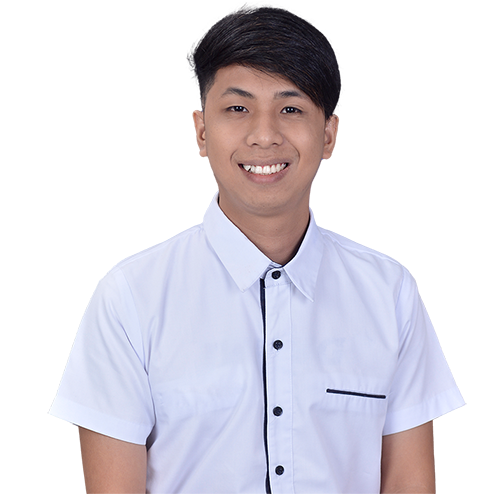
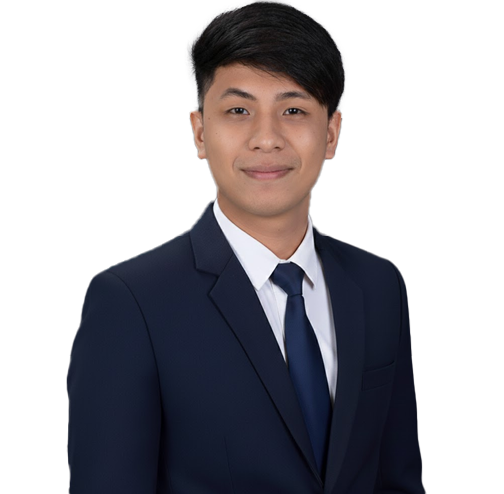
Update Image and Career Page

diff --git a/career.html b/career.html
@@ -65,26 +65,17 @@
             <h1 class="title">Opportunities here at UReL</h1>
             <div class="career-card-div">
                 <div class="career-card reveal">
-                    <h2 class="job-title">Bookkeeper</h2>
-                    <p>Are you organized, detail-oriented, and experienced in bookkeeping? 
-                        Join Urel VA Services as our next Bookkeeper!
+                    <h2 class="job-title">General Virtual Assistant</h2>
+                    <p>Are you organized, tech-savvy, and passionate about supporting growing businesses?
                     </p>
                     <div class="job-description">
-                        <h3 class="subtitle">Key Responsibilities:</h3>
+                        <h3 class="subtitle">We’re looking for a General VA who is:</h3>
                         <ul class="job-responsibility">
-                            <li class="responsibility-list">Manage accounts payable/receivable.</li>
-                            <li class="responsibility-list">Use Xero (or similar accounting software) to manage invoices, bills, and receipts</li>
-                            <li class="responsibility-list">Ensure accurate transaction, categorization, and reconciliation</li>
-                            <li class="responsibility-list">Lodge BAS (Business Activity Statements) accurately and on time</li>
-                            <li class="responsibility-list">Assist with financial reporting and maintain organized records</li>
-                        </ul>
-                        <h3 class="subtitle">Key Skills Required:</h3>
-                        <ul class="job-responsibility">
-                            <li class="responsibility-list">Proficiency in Xero or equivalent software</li>
-                            <li class="responsibility-list">Strong attention to detail and organizational skills</li>
-                            <li class="responsibility-list">Knowledge of BAS requirements and experience in lodging</li>
-                            <li class="responsibility-list">Ability to work with confidential information</li>
-                            <li class="responsibility-list">Excellent time management and ability to meet deadlines</li>
+                            <li class="responsibility-list">Skilled in admin tasks like email, scheduling, and data management</li>
+                            <li class="responsibility-list">Proficient with Google Workspace and online tools</li>
+                            <li class="responsibility-list">Detail-oriented, reliable, and adaptable to different tasks</li>
+                            <li class="responsibility-list">A strong communicator with good English skills</li>
+                            <li class="responsibility-list">Self-motivated, professional, and able to work independently</li>
                         </ul>
                         <p> Ready to Apply? click the button below and become part of our team today!</p>
                         <a href="https://forms.gle/VYu4Qi4uAmd8BMvU6">
@@ -94,19 +85,16 @@
                 </div>
         
                 <div class="career-card reveal">
-                    <h2 class="job-title">Telemarketer</h2>
-                    <p>If you’re a great communicator with a passion for connecting with people, 
-                        this could be the perfect role for you.
+                    <h2 class="job-title">[URGENT] Telemarketer</h2>
+                    <p>Are you confident on the phone and passionate about helping businesses grow?
                     </p>
                     <div class="job-description">
-                        <h3 class="subtitle">Key Skills Required:</h3>
+                        <h3 class="subtitle">We’re looking for a Telemarketer who is:</h3>
                         <ul class="job-responsibility">
-                            <li class="responsibility-list">Strong verbal communication and persuasion skills</li>
-                            <li class="responsibility-list">Confidence in making cold calls and handling outbound calls</li>
-                            <li class="responsibility-list">Excellent active listening and problem-solving abilities</li>
-                            <li class="responsibility-list">Ability to handle rejection and stay motivated</li>
-                            <li class="responsibility-list">Familiarity with CRM systems</li>
-                            <li class="responsibility-list">Ability to meet sales targets and work within deadlines</li>
+                            <li class="responsibility-list">Tech-savvy with basic knowledge of SEO and Google Ads</li>
+                            <li class="responsibility-list">Experienced in sales and appointment setting</li>
+                            <li class="responsibility-list">Willing to work graveyard shift (US time zone)</li>
+                            <li class="responsibility-list">Self-motivated, professional, and results-driven</li>
                         </ul>
                         <p> Ready to Apply? click the button below and become part of our team today!</p>
                         <a href="https://forms.gle/VYu4Qi4uAmd8BMvU6">
